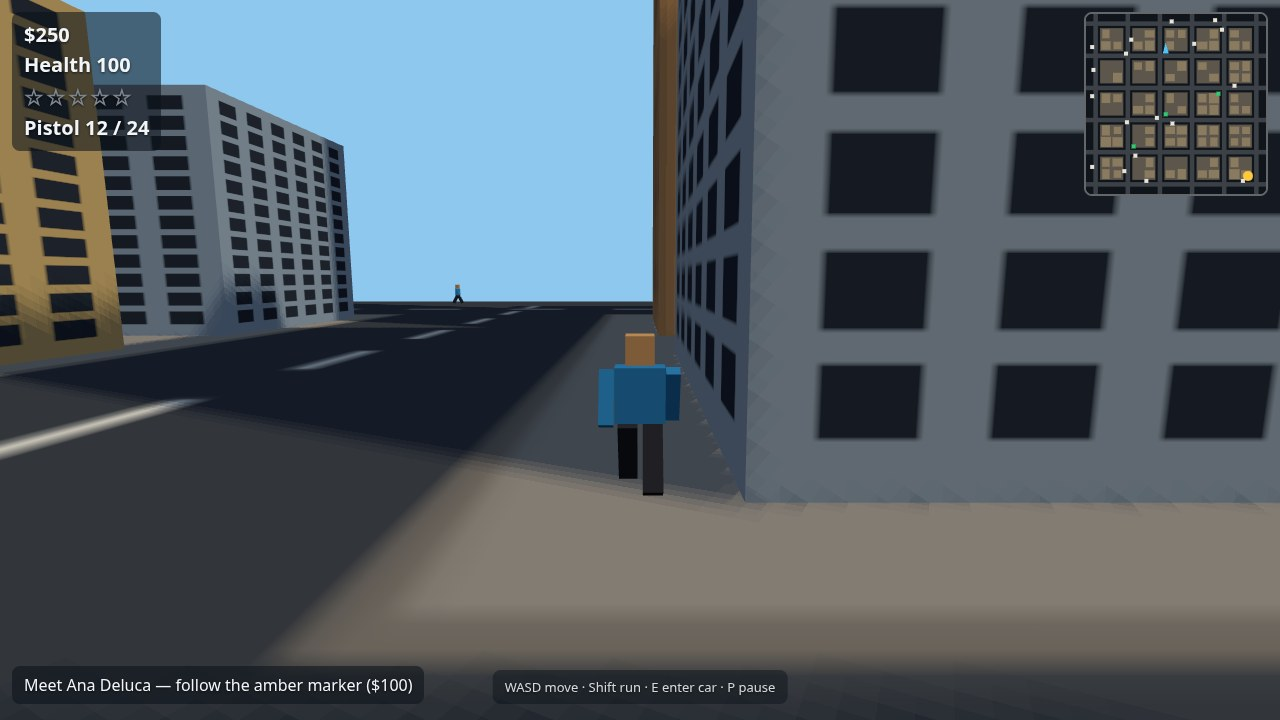
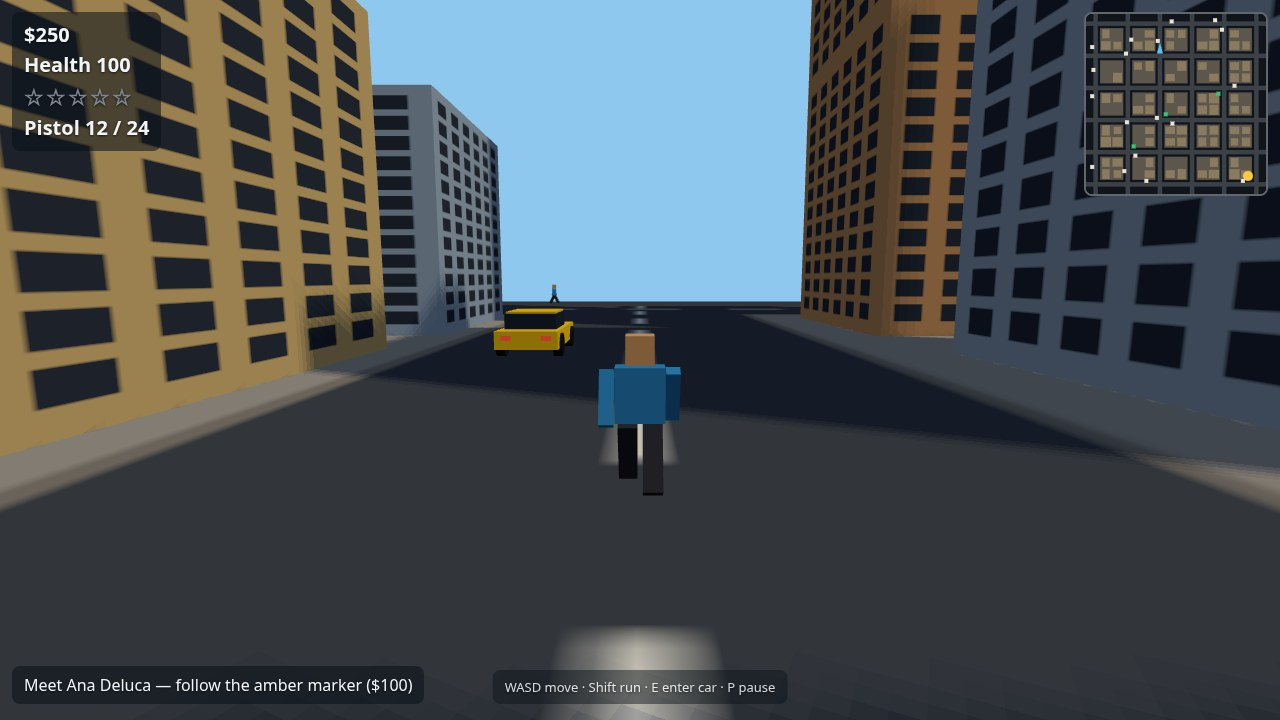
gta6-01 v3: polish, final screenshots

diff --git a/game/src/hud.js b/game/src/hud.js
@@ -30,7 +30,7 @@ export function createHud() {
   };
   const hud = el('hud');
   let last = {
-    money: -1, health: -1, wanted: -1, ammo: '', speed: -1,
+    money: -1, health: -1, wanted: -1, ammo: '', speed: -1, driving: false,
     objective: '', hint: '', banner: '',
   };
 
@@ -39,6 +39,11 @@ export function createHud() {
       node.hidden = key !== name;
     }
     hud.hidden = name === 'title';
+    // A screen change can flip the driving flag while the speed number stays
+    // put (exiting a stopped car, respawning on foot): force the next update
+    // to rewrite the speed panel instead of trusting the number cache, so it
+    // can never go stale across title / play / paused / over / respawn.
+    last.speed = -1;
   }
 
   function drawMinimap(state, city) {
@@ -114,10 +119,14 @@ export function createHud() {
       last.ammo = ammoText;
     }
     const kmh = Math.round(Math.abs(state.speed || 0) * 3.6);
-    if (kmh !== last.speed) {
+    // The speed panel must refresh when the driving flag flips, not only when
+    // the number changes: exiting a stopped car leaves kmh at 0, so a
+    // speed-only cache would keep showing "0 km/h" as if still driving.
+    if (kmh !== last.speed || state.driving !== last.driving) {
       speed.textContent = state.driving ? `${kmh} km/h` : '';
       speed.style.display = state.driving ? '' : 'none';
       last.speed = kmh;
+      last.driving = state.driving;
     }
     if (state.objective !== last.objective) {
       objective.textContent = state.objective;

diff --git a/game/src/main.js b/game/src/main.js
@@ -38,27 +38,6 @@ const canvas = document.getElementById('game');
 const status = document.getElementById('status');
 const game = buildGame();
 
-// Debug hooks for automated playtests: read state, teleport Rio. Kept for v2
-// verification; v3 strips them before submit.
-window.__dbg = () => ({
-  screen: game.screen, x: +game.player.x.toFixed(1), z: +game.player.z.toFixed(1),
-  driving: game.driving !== null, speed: +game.speed.toFixed(1),
-  money: game.money, health: Math.round(game.health),
-  missionDone: game.missions.done[0], missionIndex: game.missions.index,
-  missionsDone: [...game.missions.done], wanted: game.wanted,
-  ammoMag: game.combat.mag, ammoReserve: game.combat.reserve,
-  police: game.police.cars.length, hostilesDown: game.missions.hostilesDown,
-  policePos: game.police.cars.map((c) => ({ x: +c.x.toFixed(1), z: +c.z.toFixed(1) })),
-  flash: game.combat.flash.visible, tracer: game.combat.tracer.visible,
-  cars: game.cars.map((c) => ({ x: +c.x.toFixed(1), z: +c.z.toFixed(1) })),
-  traffic: game.traffic.cars.map((c) => ({ x: +c.x.toFixed(1), z: +c.z.toFixed(1) })),
-});
-window.__dbgTeleport = (x, z) => {
-  game.player.x = x;
-  game.player.z = z;
-  game.player.mesh.position.set(x, 0, z);
-};
-
 function buildGame() {
   const random = createRandom(seed);
   const city = createCity(random);

diff --git a/game/src/shots.js b/game/src/shots.js
@@ -62,8 +62,19 @@ export function stageShot(game, name, resetGame) {
     return { screen: SCREEN_PLAY };
   }
   if (name === 'foot') {
-    // Rio walks the sidewalk up the -25 road, traffic and pedestrians passing by.
-    game.player.x = -16;
+    // Rio walks up the middle of the -25 road, camera behind him: the street
+    // recedes ahead with traffic and pedestrians at the edges and the city
+    // behind, instead of the east sidewalk, where the tall block at (-9, -91)
+    // fills the right half of the frame. Traffic lanes sit 3.4 m either side
+    // of the centreline, so cars pass Rio without clipping him. One traffic
+    // car is put on his road, northbound in the west lane behind him, so it
+    // overtakes him during the walk and is visible ahead of him in the frame.
+    const pass = game.traffic.cars[0];
+    pass.lane = { line: -25, vertical: true, dir: -1, lane: -3.4 };
+    pass.x = -28.4;
+    pass.z = -40;
+    pass.mesh.position.set(-28.4, 0, -40);
+    game.player.x = -25;
     game.player.z = -60;
     game.player.heading = Math.PI;
     game.player.mesh.position.set(-16, 0, -60);

diff --git a/game/index.html b/game/index.html
@@ -17,6 +17,12 @@
   #speed { bottom: 16px; right: 16px; font-size: 26px; font-weight: 700; }
   #objective { bottom: 16px; left: 12px; max-width: 46vw; font-size: 16px; }
   #hint { bottom: 16px; left: 50%; transform: translateX(-50%); font-size: 13px; opacity: .85; white-space: nowrap; }
+  /* Narrow screens: the centred hint would sit on top of the objective line,
+     so the hint moves to its own row above it, left-aligned. */
+  @media (max-width: 1100px) {
+    #objective { max-width: 60vw; font-size: 15px; }
+    #hint { left: 12px; transform: none; bottom: 68px; }
+  }
   #banner { top: 64px; left: 50%; transform: translateX(-50%); font-size: 20px; font-weight: 700; color: #ffc93c; white-space: nowrap; }
   .screen { position: fixed; inset: 0; display: flex; align-items: center; justify-content: center; background: rgba(8, 12, 20, .72); color: #eef1f5; z-index: 5; }
   .screen[hidden] { display: none; }
